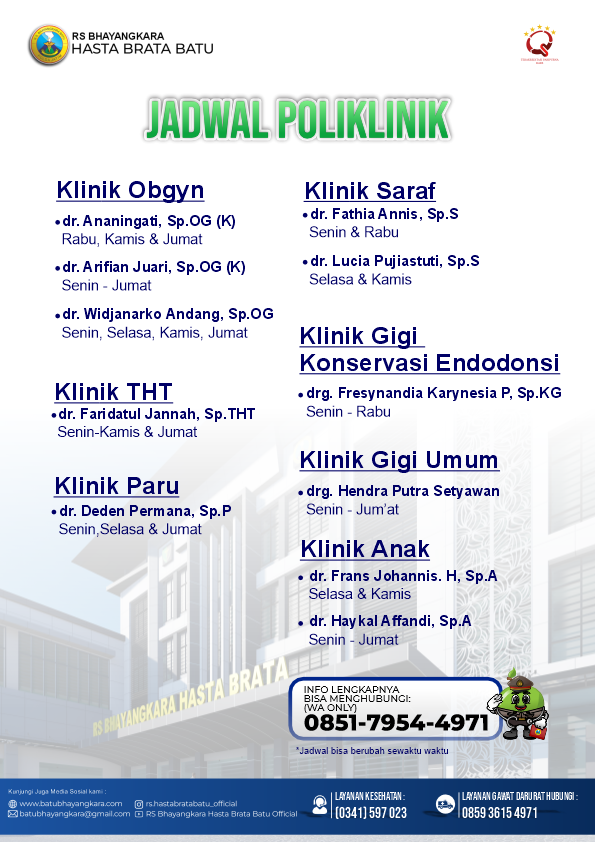
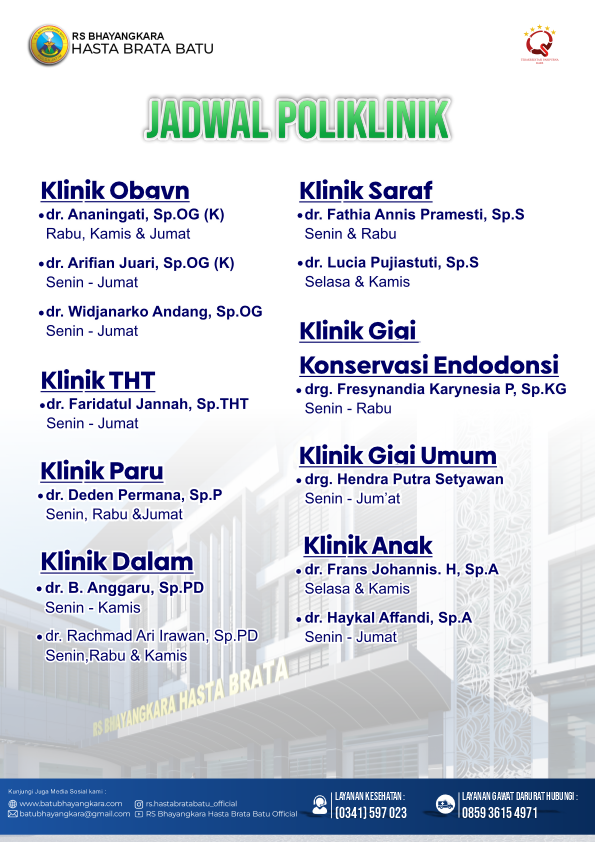
update 2 menu

diff --git a/dist/js/app-legacy.2544173c.js b/dist/js/app-legacy.2544173c.js
@@ -1,0 +1,2 @@
+(function(){"use strict";var n={7332:function(n,e,a){a(1682),a(4105),a(1658),a(376);var i=a(5150),t=(a(9241),a(3786),a(1006)),p=a(6727),u={class:"container-fluid"},s={class:"navbar navbar-expand-md navbar-dark",style:{"background-color":"#3a3a3a"}},l=["aria-expanded"],o=(0,t._)("span",{class:"navbar-toggler-icon"},null,-1),r=[o],g={class:"navbar-nav custom-nav"},m={class:"nav-item"},c={class:"nav-item"},d={class:"nav-item"},f={class:"nav-item"},h={class:"nav-item"},b={class:"nav-item"},k={class:"action-bar"},v={class:"page-num"},y=(0,t._)("p",{class:"credit"},[(0,t.Uk)(" Photos from "),(0,t._)("a",{href:"https://www.batubhayangkara.com/",target:"_blank"},"RSHB"),(0,t.Uk)(". ")],-1);function w(n,e,a,i,o,w){var j=(0,t.up)("left-icon"),_=(0,t.up)("plus-icon"),F=(0,t.up)("minus-icon"),T=(0,t.up)("right-icon"),H=(0,t.up)("Flipbook");return(0,t.wg)(),(0,t.iD)(t.HY,null,[(0,t._)("div",u,[(0,t._)("nav",s,[(0,t._)("a",{class:"navbar-brand",id:"test",onClick:e[0]||(e[0]=function(n){return w.changeImage(1)}),href:"#"},"Dashboard "),(0,t._)("button",{class:"navbar-toggler",type:"button",onClick:e[1]||(e[1]=function(){return w.toggleMenu&&w.toggleMenu.apply(w,arguments)}),"aria-expanded":o.isMenuOpen.toString(),"aria-controls":"navbarSupportedContent","aria-label":"Toggle navigation"},r,8,l),(0,t._)("div",{class:(0,p.C_)(["collapse","navbar-collapse",{show:o.isMenuOpen}])},[(0,t._)("ul",g,[(0,t._)("li",m,[(0,t._)("a",{class:"nav-link",href:"#",onClick:e[2]||(e[2]=function(n){return w.changeImage(3)})},"Tips-Tips")]),(0,t._)("li",c,[(0,t._)("a",{class:"nav-link",href:"#",onClick:e[3]||(e[3]=function(n){return w.changeImage(2)})},"Jadwal")]),(0,t._)("li",d,[(0,t._)("button",{class:"nav-link",href:"#",onClick:e[4]||(e[4]=function(n){return w.changeImage(4)})},"Kamar")]),(0,t._)("li",f,[(0,t._)("button",{class:"nav-link",href:"#",onClick:e[5]||(e[5]=function(n){return w.changeImage(5)})},"Hyperbaric")]),(0,t._)("li",h,[(0,t._)("button",{class:"nav-link",href:"#",onClick:e[6]||(e[6]=function(n){return w.changeImage(6)})},"Kertas Kinerja")]),(0,t._)("li",b,[(0,t._)("button",{class:"nav-link",href:"#",onClick:e[7]||(e[7]=function(n){return w.changeImage(7)})},"Bulletin")])])],2)])]),(0,t._)("div",{id:"app",class:(0,p.C_)({"has-mouse":o.hasMouse}),onTouchstart:e[8]||(e[8]=function(n){return o.hasMouse=!1})},[(0,t.Wm)(H,{class:"flipbook",pages:o.pages,pagesHiRes:o.pagesHiRes,startPage:o.pageNum,ref:"flipbook",onFlipLeftStart:w.onFlipLeftStart,onFlipLeftEnd:w.onFlipLeftEnd,onFlipRightStart:w.onFlipRightStart,onFlipRightEnd:w.onFlipRightEnd,onZoomStart:w.onZoomStart,onZoomEnd:w.onZoomEnd},{default:(0,t.w5)((function(n){return[(0,t._)("div",k,[(0,t.Wm)(j,{class:(0,p.C_)(["btn-slide left",{disabled:!n.canFlipLeft}]),onClick:n.flipLeft},null,8,["class","onClick"]),(0,t.Wm)(_,{class:(0,p.C_)(["btn-slide plus",{disabled:!n.canZoomIn}]),onClick:n.zoomIn},null,8,["class","onClick"]),(0,t._)("span",v," Page "+(0,p.zw)(n.page)+" of "+(0,p.zw)(n.numPages),1),(0,t.Wm)(F,{class:(0,p.C_)(["btn-slide minus",{disabled:!n.canZoomOut}]),onClick:n.zoomOut},null,8,["class","onClick"]),(0,t.Wm)(T,{class:(0,p.C_)(["btn-slide right",{disabled:!n.canFlipRight}]),onClick:n.flipRight},null,8,["class","onClick"])])]})),_:1},8,["pages","pagesHiRes","startPage","onFlipLeftStart","onFlipLeftEnd","onFlipRightStart","onFlipRightEnd","onZoomStart","onZoomEnd"]),y],34)],64)}a(4528);var j=a(4093),_=a(3685),F=a(9980),T=a(1731),H=a(1883),C={components:{Flipbook:H.Z,LeftIcon:j.Z,RightIcon:_.Z,PlusIcon:F.Z,MinusIcon:T.Z},data:function(){return{pages:[],pagesHiRes:[],hasMouse:!0,pageNum:null,isMenuOpen:!1}},methods:{onFlipLeftStart:function(n){console.log("flip-left-start",n)},onFlipLeftEnd:function(n){console.log("flip-left-end",n),window.location.hash="#"+n},onFlipRightStart:function(n){console.log("flip-right-start",n)},onFlipRightEnd:function(n){console.log("flip-right-end",n),window.location.hash="#"+n},onZoomStart:function(n){console.log("zoom-start",n)},onZoomEnd:function(n){console.log("zoom-end",n)},setPageFromHash:function(){var n=parseInt(window.location.hash.slice(1),10);isFinite(n)&&(this.pageNum=n)},toggleMenu:function(){this.isMenuOpen=!this.isMenuOpen},changeImage:function(n){switch(n){case 1:this.pageNum=1,this.pages=[null,"menu/cover/hospi-640.png","menu/Unggulan/bayi-640.png","menu/Unggulan/hyperbaric2-640.png","menu/Unggulan/pirata-640.png","menu/Unggulan/narkoba-640.png"],this.pagesHiRes=[null,"menu/cover/hospi-1920.png","menu/Unggulan/bayi-1920.png","menu/Unggulan/hyperbaric2-1920.png","menu/Unggulan/pirata-1920.png","menu/Unggulan/narkoba-1920.png "];break;case 2:this.pageNum=1,this.pages=[null,"menu/Jadwal/coverjw-640.png","menu/Jadwal/jw1-640.png","menu/Jadwal/jw2-640.png"],this.pagesHiRes=[null,"menu/Jadwal/coverjw-1920.png","menu/Jadwal/jw1-1920.png","menu/Jadwal/jw2-1920.png"];break;case 3:this.pageNum=1,this.pages=[null,"menu/Tips-tips/covertips-640.png","menu/Tips-tips/dbd-640.png","menu/Tips-tips/dbd2-640.png","menu/Tips-tips/gerd-640.png","menu/Tips-tips/gerd2-640.png","menu/Tips-tips/imunisasi-640.png","menu/Tips-tips/imunisasi2-640.png","menu/Tips-tips/stunting-640.png","menu/Tips-tips/stunting-1920.png","menu/Tips-tips/makan-640.png","menu/Tips-tips/makan2-640.png"],this.pagesHiRes=[null,"menu/Tips-tips/covertips-1920.png","menu/Tips-tips/dbd-1920.png","menu/Tips-tips/dbd2-1920.png","menu/Tips-tips/gerd-1920.png","menu/Tips-tips/gerd2-1920.png","menu/Tips-tips/imunisasi-1920.png","menu/Tips-tips/imunisasi2-1920.png","menu/Tips-tips/stunting-640.png","menu/Tips-tips/stunting-1920.png","menu/Tips-tips/makan-1920.png","menu/Tips-tips/makan2-1920.png"];break;case 4:this.pageNum=1,this.pages=[null,"menu/Kamar/coverkamar-640.png","menu/Kamar/vvip-640.png","menu/Kamar/vip-640.png","menu/Kamar/kls1-640.png","menu/Kamar/kls2-640.png","menu/Kamar/kls3-640.png"],this.pagesHiRes=[null,"menu/Kamar/coverkamar-1920.png","menu/Kamar/vvip-1920.png","menu/Kamar/vip-1920.png","menu/Kamar/kls1-1920.png","menu/Kamar/kls2-1920.png","menu/Kamar/kls3-1920.png"];break;case 5:this.pageNum=1,this.pages=[null,"menu/Hyperbaric/coverhiperbarik-640.png","menu/Hyperbaric/penjelasan-640.png","menu/Hyperbaric/prosedur-640.png","menu/Hyperbaric/syarat-640.png","menu/Hyperbaric/tarif1-640.png"],this.pagesHiRes=[null,"menu/Hyperbaric/coverhiperbarik-1920.png","menu/Hyperbaric/penjelasan-1920.png","menu/Hyperbaric/prosedur-1920.png","menu/Hyperbaric/syarat-1920.png","menu/Hyperbaric/tarif1-1920.png"];break;case 6:this.pageNum=1,this.pages=[null,"menu/dipa/dipa-640.png","menu/dipa/1.jpg","menu/dipa/2.jpg","menu/dipa/3.jpg","menu/dipa/4.jpg","menu/dipa/5.jpg","menu/dipa/6.jpg","menu/dipa/7.jpg","menu/dipa/8.jpg","menu/dipa/9.jpg","menu/dipa/10.jpg"],this.pagesHiRes=[null,"menu/dipa/dipa-1920.png","menu/dipa/1.jpg","menu/dipa/2.jpg","menu/dipa/3.jpg","menu/dipa/4.jpg","menu/dipa/5.jpg","menu/dipa/6.jpg","menu/dipa/7.jpg","menu/dipa/8.jpg","menu/dipa/9.jpg","menu/dipa/10.jpg"];break;case 7:this.pageNum=1,this.pages=[null,"menu/Bulletin/cover buletin - 640.png","menu/Bulletin/Profil -640.png","menu/Bulletin/Profil2 -640.png","menu/Bulletin/pemilu - 640.png","menu/Bulletin/baktikes1-640.png","menu/Bulletin/baktikes2-640.png","menu/Bulletin/baktikes3-640.png","menu/Bulletin/baktikes4-640.png","menu/Bulletin/layanan hyperbaric - 640.png","menu/Bulletin/layanan pirata-640.png","menu/Bulletin/layanan perluasan - 640.png"],this.pagesHiRes=[null,"menu/Bulletin/cover buletin - 1920.png","menu/Bulletin/Profil -1920.png","menu/Bulletin/Profil2 -1920.png","menu/Bulletin/pemilu - 1920.png","menu/Bulletin/baktikes1-1920.png","menu/Bulletin/baktikes2-1920.png","menu/Bulletin/baktikes3-1920.png","menu/Bulletin/baktikes4-1920.png","menu/Bulletin/layanan hyperbaric - 1920.png","menu/Bulletin/layanan pirata-1920.png","menu/Bulletin/layanan perluasan - 1920.png"];break;default:break}}},mounted:function(){var n=this;window.addEventListener("keydown",(function(e){var a=n.$refs.flipbook;a&&(37==e.keyCode&&a.canFlipLeft&&a.flipLeft(),39==e.keyCode&&a.canFlipRight&&a.flipRight())})),setTimeout((function(){n.pages=[null,"menu/cover/hospi-640.png","menu/Unggulan/bayi-640.png","menu/Unggulan/hyperbaric2-640.png","menu/Unggulan/pirata-640.png","menu/Unggulan/narkoba-640.png"],n.pagesHiRes=[null,"menu/cover/hospi-1920.png","menu/Unggulan/bayi-1920.png","menu/Unggulan/hyperbaric2-1920.png","menu/Unggulan/pirata-1920.png","menu/Unggulan/narkoba-1920.png"]}),1),window.addEventListener("hashchange",this.setPageFromHash),this.setPageFromHash()}},R=a(7583);const B=(0,R.Z)(C,[["render",w]]);var O=B;a(5839);(0,i.ri)(O).mount("#app")}},e={};function a(i){var t=e[i];if(void 0!==t)return t.exports;var p=e[i]={exports:{}};return n[i](p,p.exports,a),p.exports}a.m=n,function(){var n=[];a.O=function(e,i,t,p){if(!i){var u=1/0;for(r=0;r<n.length;r++){i=n[r][0],t=n[r][1],p=n[r][2];for(var s=!0,l=0;l<i.length;l++)(!1&p||u>=p)&&Object.keys(a.O).every((function(n){return a.O[n](i[l])}))?i.splice(l--,1):(s=!1,p<u&&(u=p));if(s){n.splice(r--,1);var o=t();void 0!==o&&(e=o)}}return e}p=p||0;for(var r=n.length;r>0&&n[r-1][2]>p;r--)n[r]=n[r-1];n[r]=[i,t,p]}}(),function(){a.n=function(n){var e=n&&n.__esModule?function(){return n["default"]}:function(){return n};return a.d(e,{a:e}),e}}(),function(){a.d=function(n,e){for(var i in e)a.o(e,i)&&!a.o(n,i)&&Object.defineProperty(n,i,{enumerable:!0,get:e[i]})}}(),function(){a.g=function(){if("object"===typeof globalThis)return globalThis;try{return this||new Function("return this")()}catch(n){if("object"===typeof window)return window}}()}(),function(){a.o=function(n,e){return Object.prototype.hasOwnProperty.call(n,e)}}(),function(){var n={143:0};a.O.j=function(e){return 0===n[e]};var e=function(e,i){var t,p,u=i[0],s=i[1],l=i[2],o=0;if(u.some((function(e){return 0!==n[e]}))){for(t in s)a.o(s,t)&&(a.m[t]=s[t]);if(l)var r=l(a)}for(e&&e(i);o<u.length;o++)p=u[o],a.o(n,p)&&n[p]&&n[p][0](),n[p]=0;return a.O(r)},i=self["webpackChunkFlipbook"]=self["webpackChunkFlipbook"]||[];i.forEach(e.bind(null,0)),i.push=e.bind(null,i.push.bind(i))}();var i=a.O(void 0,[998],(function(){return a(7332)}));i=a.O(i)})();
+//# sourceMappingURL=app-legacy.2544173c.js.map

diff --git a/dist/js/app.b3c51b13.js b/dist/js/app.b3c51b13.js
@@ -1,0 +1,2 @@
+(function(){"use strict";var n={7332:function(n,e,a){var i=a(5150),p=a(1006),s=a(6727);const t={class:"container-fluid"},l={class:"navbar navbar-expand-md navbar-dark",style:{"background-color":"#3a3a3a"}},u=["aria-expanded"],g=(0,p._)("span",{class:"navbar-toggler-icon"},null,-1),o=[g],r={class:"navbar-nav custom-nav"},m={class:"nav-item"},c={class:"nav-item"},d={class:"nav-item"},h={class:"nav-item"},b={class:"nav-item"},f={class:"nav-item"},k={class:"action-bar"},v={class:"page-num"},y=(0,p._)("p",{class:"credit"},[(0,p.Uk)(" Photos from "),(0,p._)("a",{href:"https://www.batubhayangkara.com/",target:"_blank"},"RSHB"),(0,p.Uk)(". ")],-1);function w(n,e,a,i,g,w){const j=(0,p.up)("left-icon"),_=(0,p.up)("plus-icon"),F=(0,p.up)("minus-icon"),T=(0,p.up)("right-icon"),H=(0,p.up)("Flipbook");return(0,p.wg)(),(0,p.iD)(p.HY,null,[(0,p._)("div",t,[(0,p._)("nav",l,[(0,p._)("a",{class:"navbar-brand",id:"test",onClick:e[0]||(e[0]=n=>w.changeImage(1)),href:"#"},"Dashboard "),(0,p._)("button",{class:"navbar-toggler",type:"button",onClick:e[1]||(e[1]=(...n)=>w.toggleMenu&&w.toggleMenu(...n)),"aria-expanded":g.isMenuOpen.toString(),"aria-controls":"navbarSupportedContent","aria-label":"Toggle navigation"},o,8,u),(0,p._)("div",{class:(0,s.C_)(["collapse","navbar-collapse",{show:g.isMenuOpen}])},[(0,p._)("ul",r,[(0,p._)("li",m,[(0,p._)("a",{class:"nav-link",href:"#",onClick:e[2]||(e[2]=n=>w.changeImage(3))},"Tips-Tips")]),(0,p._)("li",c,[(0,p._)("a",{class:"nav-link",href:"#",onClick:e[3]||(e[3]=n=>w.changeImage(2))},"Jadwal")]),(0,p._)("li",d,[(0,p._)("button",{class:"nav-link",href:"#",onClick:e[4]||(e[4]=n=>w.changeImage(4))},"Kamar")]),(0,p._)("li",h,[(0,p._)("button",{class:"nav-link",href:"#",onClick:e[5]||(e[5]=n=>w.changeImage(5))},"Hyperbaric")]),(0,p._)("li",b,[(0,p._)("button",{class:"nav-link",href:"#",onClick:e[6]||(e[6]=n=>w.changeImage(6))},"Kertas Kinerja")]),(0,p._)("li",f,[(0,p._)("button",{class:"nav-link",href:"#",onClick:e[7]||(e[7]=n=>w.changeImage(7))},"Bulletin")])])],2)])]),(0,p._)("div",{id:"app",class:(0,s.C_)({"has-mouse":g.hasMouse}),onTouchstart:e[8]||(e[8]=n=>g.hasMouse=!1)},[(0,p.Wm)(H,{class:"flipbook",pages:g.pages,pagesHiRes:g.pagesHiRes,startPage:g.pageNum,ref:"flipbook",onFlipLeftStart:w.onFlipLeftStart,onFlipLeftEnd:w.onFlipLeftEnd,onFlipRightStart:w.onFlipRightStart,onFlipRightEnd:w.onFlipRightEnd,onZoomStart:w.onZoomStart,onZoomEnd:w.onZoomEnd},{default:(0,p.w5)((n=>[(0,p._)("div",k,[(0,p.Wm)(j,{class:(0,s.C_)(["btn-slide left",{disabled:!n.canFlipLeft}]),onClick:n.flipLeft},null,8,["class","onClick"]),(0,p.Wm)(_,{class:(0,s.C_)(["btn-slide plus",{disabled:!n.canZoomIn}]),onClick:n.zoomIn},null,8,["class","onClick"]),(0,p._)("span",v," Page "+(0,s.zw)(n.page)+" of "+(0,s.zw)(n.numPages),1),(0,p.Wm)(F,{class:(0,s.C_)(["btn-slide minus",{disabled:!n.canZoomOut}]),onClick:n.zoomOut},null,8,["class","onClick"]),(0,p.Wm)(T,{class:(0,s.C_)(["btn-slide right",{disabled:!n.canFlipRight}]),onClick:n.flipRight},null,8,["class","onClick"])])])),_:1},8,["pages","pagesHiRes","startPage","onFlipLeftStart","onFlipLeftEnd","onFlipRightStart","onFlipRightEnd","onZoomStart","onZoomEnd"]),y],34)],64)}var j=a(4093),_=a(3685),F=a(9980),T=a(1731),H=a(1883),C={components:{Flipbook:H.Z,LeftIcon:j.Z,RightIcon:_.Z,PlusIcon:F.Z,MinusIcon:T.Z},data(){return{pages:[],pagesHiRes:[],hasMouse:!0,pageNum:null,isMenuOpen:!1}},methods:{onFlipLeftStart(n){console.log("flip-left-start",n)},onFlipLeftEnd(n){console.log("flip-left-end",n),window.location.hash="#"+n},onFlipRightStart(n){console.log("flip-right-start",n)},onFlipRightEnd(n){console.log("flip-right-end",n),window.location.hash="#"+n},onZoomStart(n){console.log("zoom-start",n)},onZoomEnd(n){console.log("zoom-end",n)},setPageFromHash(){const n=parseInt(window.location.hash.slice(1),10);isFinite(n)&&(this.pageNum=n)},toggleMenu(){this.isMenuOpen=!this.isMenuOpen},changeImage(n){switch(n){case 1:this.pageNum=1,this.pages=[null,"menu/cover/hospi-640.png","menu/Unggulan/bayi-640.png","menu/Unggulan/hyperbaric2-640.png","menu/Unggulan/pirata-640.png","menu/Unggulan/narkoba-640.png"],this.pagesHiRes=[null,"menu/cover/hospi-1920.png","menu/Unggulan/bayi-1920.png","menu/Unggulan/hyperbaric2-1920.png","menu/Unggulan/pirata-1920.png","menu/Unggulan/narkoba-1920.png "];break;case 2:this.pageNum=1,this.pages=[null,"menu/Jadwal/coverjw-640.png","menu/Jadwal/jw1-640.png","menu/Jadwal/jw2-640.png"],this.pagesHiRes=[null,"menu/Jadwal/coverjw-1920.png","menu/Jadwal/jw1-1920.png","menu/Jadwal/jw2-1920.png"];break;case 3:this.pageNum=1,this.pages=[null,"menu/Tips-tips/covertips-640.png","menu/Tips-tips/dbd-640.png","menu/Tips-tips/dbd2-640.png","menu/Tips-tips/gerd-640.png","menu/Tips-tips/gerd2-640.png","menu/Tips-tips/imunisasi-640.png","menu/Tips-tips/imunisasi2-640.png","menu/Tips-tips/stunting-640.png","menu/Tips-tips/stunting-1920.png","menu/Tips-tips/makan-640.png","menu/Tips-tips/makan2-640.png"],this.pagesHiRes=[null,"menu/Tips-tips/covertips-1920.png","menu/Tips-tips/dbd-1920.png","menu/Tips-tips/dbd2-1920.png","menu/Tips-tips/gerd-1920.png","menu/Tips-tips/gerd2-1920.png","menu/Tips-tips/imunisasi-1920.png","menu/Tips-tips/imunisasi2-1920.png","menu/Tips-tips/stunting-640.png","menu/Tips-tips/stunting-1920.png","menu/Tips-tips/makan-1920.png","menu/Tips-tips/makan2-1920.png"];break;case 4:this.pageNum=1,this.pages=[null,"menu/Kamar/coverkamar-640.png","menu/Kamar/vvip-640.png","menu/Kamar/vip-640.png","menu/Kamar/kls1-640.png","menu/Kamar/kls2-640.png","menu/Kamar/kls3-640.png"],this.pagesHiRes=[null,"menu/Kamar/coverkamar-1920.png","menu/Kamar/vvip-1920.png","menu/Kamar/vip-1920.png","menu/Kamar/kls1-1920.png","menu/Kamar/kls2-1920.png","menu/Kamar/kls3-1920.png"];break;case 5:this.pageNum=1,this.pages=[null,"menu/Hyperbaric/coverhiperbarik-640.png","menu/Hyperbaric/penjelasan-640.png","menu/Hyperbaric/prosedur-640.png","menu/Hyperbaric/syarat-640.png","menu/Hyperbaric/tarif1-640.png"],this.pagesHiRes=[null,"menu/Hyperbaric/coverhiperbarik-1920.png","menu/Hyperbaric/penjelasan-1920.png","menu/Hyperbaric/prosedur-1920.png","menu/Hyperbaric/syarat-1920.png","menu/Hyperbaric/tarif1-1920.png"];break;case 6:this.pageNum=1,this.pages=[null,"menu/dipa/dipa-640.png","menu/dipa/1.jpg","menu/dipa/2.jpg","menu/dipa/3.jpg","menu/dipa/4.jpg","menu/dipa/5.jpg","menu/dipa/6.jpg","menu/dipa/7.jpg","menu/dipa/8.jpg","menu/dipa/9.jpg","menu/dipa/10.jpg"],this.pagesHiRes=[null,"menu/dipa/dipa-1920.png","menu/dipa/1.jpg","menu/dipa/2.jpg","menu/dipa/3.jpg","menu/dipa/4.jpg","menu/dipa/5.jpg","menu/dipa/6.jpg","menu/dipa/7.jpg","menu/dipa/8.jpg","menu/dipa/9.jpg","menu/dipa/10.jpg"];break;case 7:this.pageNum=1,this.pages=[null,"menu/Bulletin/cover buletin - 640.png","menu/Bulletin/Profil -640.png","menu/Bulletin/Profil2 -640.png","menu/Bulletin/pemilu - 640.png","menu/Bulletin/baktikes1-640.png","menu/Bulletin/baktikes2-640.png","menu/Bulletin/baktikes3-640.png","menu/Bulletin/baktikes4-640.png","menu/Bulletin/layanan hyperbaric - 640.png","menu/Bulletin/layanan pirata-640.png","menu/Bulletin/layanan perluasan - 640.png"],this.pagesHiRes=[null,"menu/Bulletin/cover buletin - 1920.png","menu/Bulletin/Profil -1920.png","menu/Bulletin/Profil2 -1920.png","menu/Bulletin/pemilu - 1920.png","menu/Bulletin/baktikes1-1920.png","menu/Bulletin/baktikes2-1920.png","menu/Bulletin/baktikes3-1920.png","menu/Bulletin/baktikes4-1920.png","menu/Bulletin/layanan hyperbaric - 1920.png","menu/Bulletin/layanan pirata-1920.png","menu/Bulletin/layanan perluasan - 1920.png"];break;default:break}}},mounted(){window.addEventListener("keydown",(n=>{const e=this.$refs.flipbook;e&&(37==n.keyCode&&e.canFlipLeft&&e.flipLeft(),39==n.keyCode&&e.canFlipRight&&e.flipRight())})),setTimeout((()=>{this.pages=[null,"menu/cover/hospi-640.png","menu/Unggulan/bayi-640.png","menu/Unggulan/hyperbaric2-640.png","menu/Unggulan/pirata-640.png","menu/Unggulan/narkoba-640.png"],this.pagesHiRes=[null,"menu/cover/hospi-1920.png","menu/Unggulan/bayi-1920.png","menu/Unggulan/hyperbaric2-1920.png","menu/Unggulan/pirata-1920.png","menu/Unggulan/narkoba-1920.png"]}),1),window.addEventListener("hashchange",this.setPageFromHash),this.setPageFromHash()}},R=a(7583);const B=(0,R.Z)(C,[["render",w]]);var O=B;a(5839);(0,i.ri)(O).mount("#app")}},e={};function a(i){var p=e[i];if(void 0!==p)return p.exports;var s=e[i]={exports:{}};return n[i](s,s.exports,a),s.exports}a.m=n,function(){var n=[];a.O=function(e,i,p,s){if(!i){var t=1/0;for(o=0;o<n.length;o++){i=n[o][0],p=n[o][1],s=n[o][2];for(var l=!0,u=0;u<i.length;u++)(!1&s||t>=s)&&Object.keys(a.O).every((function(n){return a.O[n](i[u])}))?i.splice(u--,1):(l=!1,s<t&&(t=s));if(l){n.splice(o--,1);var g=p();void 0!==g&&(e=g)}}return e}s=s||0;for(var o=n.length;o>0&&n[o-1][2]>s;o--)n[o]=n[o-1];n[o]=[i,p,s]}}(),function(){a.n=function(n){var e=n&&n.__esModule?function(){return n["default"]}:function(){return n};return a.d(e,{a:e}),e}}(),function(){a.d=function(n,e){for(var i in e)a.o(e,i)&&!a.o(n,i)&&Object.defineProperty(n,i,{enumerable:!0,get:e[i]})}}(),function(){a.g=function(){if("object"===typeof globalThis)return globalThis;try{return this||new Function("return this")()}catch(n){if("object"===typeof window)return window}}()}(),function(){a.o=function(n,e){return Object.prototype.hasOwnProperty.call(n,e)}}(),function(){var n={143:0};a.O.j=function(e){return 0===n[e]};var e=function(e,i){var p,s,t=i[0],l=i[1],u=i[2],g=0;if(t.some((function(e){return 0!==n[e]}))){for(p in l)a.o(l,p)&&(a.m[p]=l[p]);if(u)var o=u(a)}for(e&&e(i);g<t.length;g++)s=t[g],a.o(n,s)&&n[s]&&n[s][0](),n[s]=0;return a.O(o)},i=self["webpackChunkFlipbook"]=self["webpackChunkFlipbook"]||[];i.forEach(e.bind(null,0)),i.push=e.bind(null,i.push.bind(i))}();var i=a.O(void 0,[998],(function(){return a(7332)}));i=a.O(i)})();
+//# sourceMappingURL=app.b3c51b13.js.map

diff --git a/src/App.vue b/src/App.vue
@@ -10,21 +10,22 @@
           <div :class="['collapse', 'navbar-collapse', { 'show': isMenuOpen }]">
             <ul class="navbar-nav custom-nav">
               <li class="nav-item">
-                <!-- Bind the click event to call changeImage method with the corresponding menu item -->
                 <a class="nav-link" href="#" @click="changeImage(3)">Tips-Tips</a>
               </li>
               <li class="nav-item">
-                <!-- Bind the click event to call changeImage method with the corresponding menu item -->
                 <a class="nav-link" href="#" @click="changeImage(2)">Jadwal</a>
               </li>
               <li class="nav-item">
-                <!-- Bind the click event to call changeImage method with the corresponding menu item -->
                 <button class="nav-link" href="#" @click="changeImage(4)">Kamar</button>
               </li>
               <li class="nav-item">
-                <!-- Bind the click event to call changeImage method with the corresponding menu item -->
-                <!-- <button class="nav-link" href="#" onclick="openFullscreen()">Menu Item 3</button> -->
                 <button class="nav-link" href="#" @click="changeImage(5)">Hyperbaric</button>
+              </li>
+              <li class="nav-item">
+                <button class="nav-link" href="#" @click="changeImage(6)">Kertas Kinerja</button>
+              </li>
+              <li class="nav-item">
+                <button class="nav-link" href="#" @click="changeImage(7)">Bulletin</button>
               </li>
             </ul>
             <!-- <button class="btn btn-outline-success my-2 my-sm-0" type="submit">Search</button> -->
@@ -126,7 +127,7 @@
               null,
               'menu/Jadwal/coverjw-640.png',
               'menu/Jadwal/jw1-640.png', 
-              'menu/Jadwal/jw1-640.png'
+              'menu/Jadwal/jw2-640.png'
             ];
             this.pagesHiRes = [
             null,
@@ -207,6 +208,70 @@
               'menu/Hyperbaric/prosedur-1920.png',
               'menu/Hyperbaric/syarat-1920.png', 
               'menu/Hyperbaric/tarif1-1920.png'
+            ];
+            break;
+            case 6:
+            // Kertas Kinerja
+            this.pageNum = 1;
+            this.pages = [
+              null,
+              'menu/dipa/dipa-640.png',
+              'menu/dipa/1.jpg', 
+              'menu/dipa/2.jpg',
+              'menu/dipa/3.jpg', 
+              'menu/dipa/4.jpg',
+              'menu/dipa/5.jpg', 
+              'menu/dipa/6.jpg',
+              'menu/dipa/7.jpg', 
+              'menu/dipa/8.jpg',
+              'menu/dipa/9.jpg', 
+              'menu/dipa/10.jpg',
+            ];
+            this.pagesHiRes = [
+            null,
+              'menu/dipa/dipa-1920.png',
+              'menu/dipa/1.jpg', 
+              'menu/dipa/2.jpg',
+              'menu/dipa/3.jpg', 
+              'menu/dipa/4.jpg',
+              'menu/dipa/5.jpg', 
+              'menu/dipa/6.jpg',
+              'menu/dipa/7.jpg', 
+              'menu/dipa/8.jpg',
+              'menu/dipa/9.jpg', 
+              'menu/dipa/10.jpg'
+            ];
+            break;
+            case 7:
+            // Buletin
+            this.pageNum = 1;
+            this.pages = [
+              null,
+              'menu/Bulletin/cover buletin - 640.png',
+              'menu/Bulletin/Profil -640.png', 
+              'menu/Bulletin/Profil2 -640.png',
+              'menu/Bulletin/pemilu - 640.png', 
+              'menu/Bulletin/baktikes1-640.png',
+              'menu/Bulletin/baktikes2-640.png', 
+              'menu/Bulletin/baktikes3-640.png',
+              'menu/Bulletin/baktikes4-640.png',
+              'menu/Bulletin/layanan hyperbaric - 640.png', 
+              'menu/Bulletin/layanan pirata-640.png',
+              'menu/Bulletin/layanan perluasan - 640.png'
+            ];
+            this.pagesHiRes = [
+            null,
+              'menu/Bulletin/cover buletin - 1920.png',
+              'menu/Bulletin/Profil -1920.png', 
+              'menu/Bulletin/Profil2 -1920.png',
+              'menu/Bulletin/pemilu - 1920.png', 
+              'menu/Bulletin/baktikes1-1920.png',
+              'menu/Bulletin/baktikes2-1920.png', 
+              'menu/Bulletin/baktikes3-1920.png',
+              'menu/Bulletin/baktikes4-1920.png',
+              'menu/Bulletin/layanan hyperbaric - 1920.png', 
+              'menu/Bulletin/layanan pirata-1920.png',
+              'menu/Bulletin/layanan perluasan - 1920.png'
             ];
             break;
           default:

diff --git a/dist/index.html b/dist/index.html
@@ -4,7 +4,7 @@
         padding:6px;
         margin-left:20px;
         margin-right:51px;
-      }</style><script defer="defer" type="module" src="js/chunk-vendors.cd2a0563.js"></script><script defer="defer" type="module" src="js/app.7be384af.js"></script><link href="css/chunk-vendors.367aae29.css" rel="stylesheet"><link href="css/app.50042b9e.css" rel="stylesheet"><script defer="defer" src="js/chunk-vendors-legacy.3324ecec.js" nomodule></script><script defer="defer" src="js/app-legacy.acb6505b.js" nomodule></script></head><body><noscript><strong>We're sorry but Flipbook doesn't work properly without JavaScript enabled. Please enable it to continue.</strong></noscript><div id="app"></div><script>/* Get the element you want displayed in fullscreen mode (a video in this example): */
+      }</style><script defer="defer" type="module" src="js/chunk-vendors.cd2a0563.js"></script><script defer="defer" type="module" src="js/app.b3c51b13.js"></script><link href="css/chunk-vendors.367aae29.css" rel="stylesheet"><link href="css/app.50042b9e.css" rel="stylesheet"><script defer="defer" src="js/chunk-vendors-legacy.3324ecec.js" nomodule></script><script defer="defer" src="js/app-legacy.2544173c.js" nomodule></script></head><body><noscript><strong>We're sorry but Flipbook doesn't work properly without JavaScript enabled. Please enable it to continue.</strong></noscript><div id="app"></div><script>/* Get the element you want displayed in fullscreen mode (a video in this example): */
       var elem = document.getElementById("app");
       
       /* When the openFullscreen() function is executed, open the video in fullscreen.
